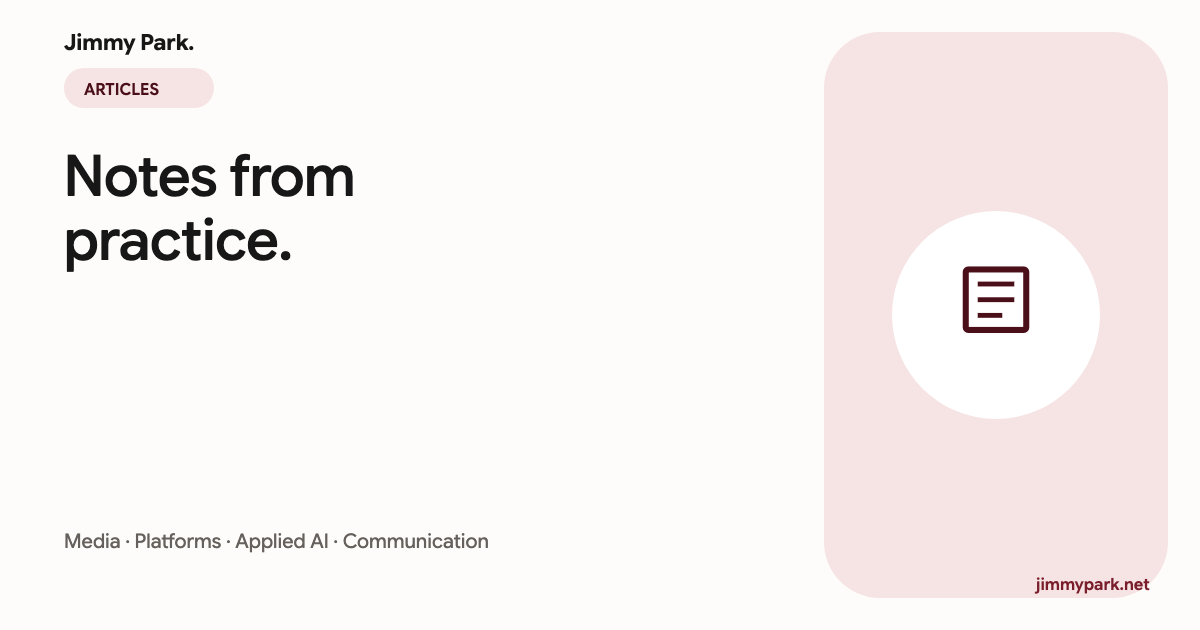
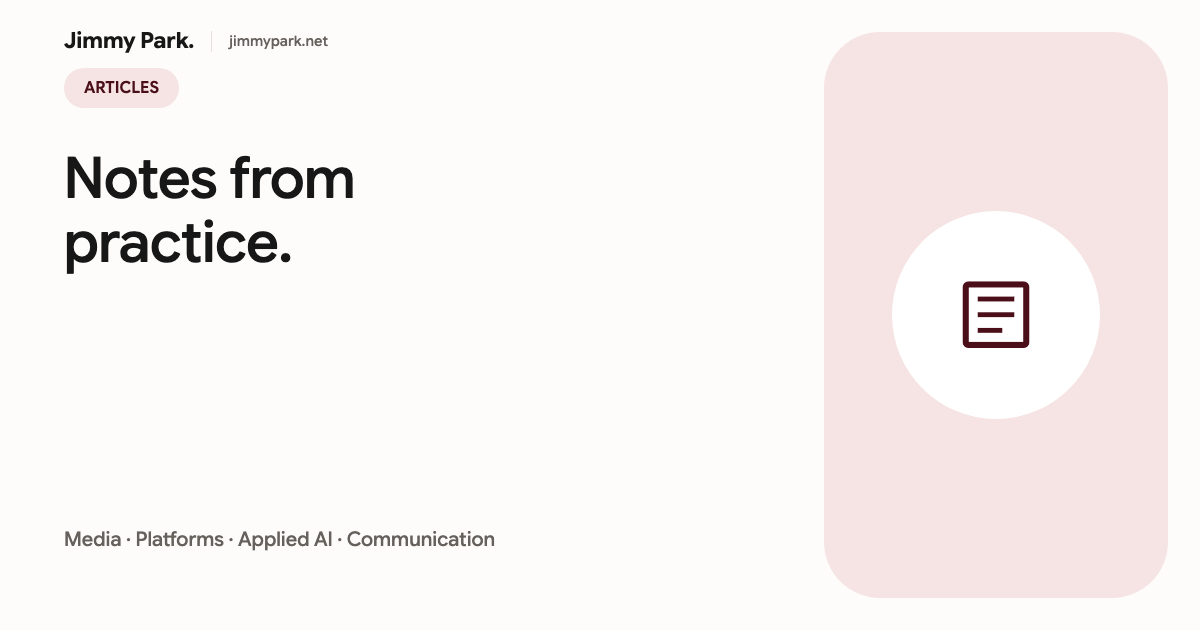
fix: move OG domain into safe brand lockup

diff --git a/insights.html b/insights.html
@@ -2,8 +2,8 @@
 <html lang="en"><head><meta charset="utf-8"><meta name="viewport" content="width=device-width, initial-scale=1">
 <title>Articles | Jimmy Park</title><meta name="description" content="Practical articles on media, web development, applied AI, and Scouting communication."><link rel="canonical" href="https://jimmypark.net/insights">
 <meta property="og:type" content="website"><meta property="og:site_name" content="Jimmy Park"><meta property="og:title" content="Articles | Jimmy Park"><meta property="og:description" content="Practical articles on media, web development, applied AI, and Scouting communication."><meta property="og:url" content="https://jimmypark.net/insights">
-<meta property="og:image" content="https://jimmypark.net/assets/img/og/articles.png?v=0.22.0"><meta property="og:image:secure_url" content="https://jimmypark.net/assets/img/og/articles.png?v=0.22.0"><meta property="og:image:width" content="1200"><meta property="og:image:height" content="630"><meta property="og:image:alt" content="Jimmy Park Articles — notes from practice">
-<meta name="twitter:card" content="summary_large_image"><meta name="twitter:image" content="https://jimmypark.net/assets/img/og/articles.png?v=0.22.0"><meta name="twitter:image:alt" content="Jimmy Park Articles — notes from practice"><meta name="twitter:title" content="Articles | Jimmy Park"><meta name="twitter:description" content="Practical articles on media, web development, applied AI, and Scouting communication.">
+<meta property="og:image" content="https://jimmypark.net/assets/img/og/articles.png?v=0.22.1"><meta property="og:image:secure_url" content="https://jimmypark.net/assets/img/og/articles.png?v=0.22.1"><meta property="og:image:width" content="1200"><meta property="og:image:height" content="630"><meta property="og:image:alt" content="Jimmy Park Articles — notes from practice">
+<meta name="twitter:card" content="summary_large_image"><meta name="twitter:image" content="https://jimmypark.net/assets/img/og/articles.png?v=0.22.1"><meta name="twitter:image:alt" content="Jimmy Park Articles — notes from practice"><meta name="twitter:title" content="Articles | Jimmy Park"><meta name="twitter:description" content="Practical articles on media, web development, applied AI, and Scouting communication.">
 <link rel="icon" href="/assets/img/favicon.svg?v=0.9.0" type="image/svg+xml">
 <link rel="preconnect" href="https://fonts.googleapis.com"><link rel="preconnect" href="https://fonts.gstatic.com" crossorigin><link href="https://fonts.googleapis.com/css2?family=Google+Sans+Flex:opsz,wght@6..144,1..1000&amp;display=swap" rel="stylesheet"><link href="https://fonts.googleapis.com/css2?family=Material+Symbols+Outlined:opsz,wght,FILL,GRAD@20..48,400,0..1,0&amp;display=swap" rel="stylesheet">
 <link rel="stylesheet" href="/assets/site.css?v=0.22.0"></head>

diff --git a/index.html b/index.html
@@ -11,15 +11,15 @@
 <meta property="og:title" content="Jimmy Park (박지민) | Producer, Platform Builder &amp; Applied AI Practitioner">
 <meta property="og:description" content="Jimmy Park (박지민) is a Korea-based producer and builder who turns complex goals into films, learning platforms and practical AI workflows, supported by international collaboration.">
 <meta property="og:url" content="https://jimmypark.net/">
-<meta property="og:image" content="https://jimmypark.net/assets/img/og/home.png?v=0.22.0">
-<meta property="og:image:secure_url" content="https://jimmypark.net/assets/img/og/home.png?v=0.22.0">
+<meta property="og:image" content="https://jimmypark.net/assets/img/og/home.png?v=0.22.1">
+<meta property="og:image:secure_url" content="https://jimmypark.net/assets/img/og/home.png?v=0.22.1">
 <meta property="og:image:width" content="1200">
 <meta property="og:image:height" content="630">
 <meta property="og:image:alt" content="Jimmy Park — purpose first, the right medium, built for use">
 <meta name="twitter:card" content="summary_large_image">
 <meta name="twitter:title" content="Jimmy Park (박지민) | Producer, Platform Builder &amp; Applied AI Practitioner">
 <meta name="twitter:description" content="Jimmy Park (박지민) is a Korea-based producer and builder who turns complex goals into films, learning platforms and practical AI workflows, supported by international collaboration.">
-<meta name="twitter:image" content="https://jimmypark.net/assets/img/og/home.png?v=0.22.0">
+<meta name="twitter:image" content="https://jimmypark.net/assets/img/og/home.png?v=0.22.1">
 <meta name="twitter:image:alt" content="Jimmy Park — purpose first, the right medium, built for use">
 <link rel="icon" href="/assets/img/favicon.svg?v=0.9.0" type="image/svg+xml">
 <link rel="stylesheet" as="style" crossorigin href="https://cdn.jsdelivr.net/gh/orioncactus/pretendard@v1.3.9/dist/web/static/pretendard.min.css">

diff --git a/work.html b/work.html
@@ -11,15 +11,15 @@
 <meta property="og:title" content="Media Work: Video Production &amp; Photography | Jimmy Park">
 <meta property="og:description" content="Explore Jimmy Park’s media work: keynote videos, promotional films, branded series and event films with credited roles, plus press-ready field photography.">
 <meta property="og:url" content="https://jimmypark.net/work">
-<meta property="og:image" content="https://jimmypark.net/assets/img/og/media-work.png?v=0.22.0">
-<meta property="og:image:secure_url" content="https://jimmypark.net/assets/img/og/media-work.png?v=0.22.0">
+<meta property="og:image" content="https://jimmypark.net/assets/img/og/media-work.png?v=0.22.1">
+<meta property="og:image:secure_url" content="https://jimmypark.net/assets/img/og/media-work.png?v=0.22.1">
 <meta property="og:image:width" content="1200">
 <meta property="og:image:height" content="630">
 <meta property="og:image:alt" content="Jimmy Park media work — stories shaped for attention and meaning">
 <meta name="twitter:title" content="Media Work: Video Production &amp; Photography | Jimmy Park">
 <meta name="twitter:description" content="Explore Jimmy Park’s media work: keynote videos, promotional films, branded series and event films with credited roles, plus press-ready field photography.">
 <meta name="twitter:card" content="summary_large_image">
-<meta name="twitter:image" content="https://jimmypark.net/assets/img/og/media-work.png?v=0.22.0">
+<meta name="twitter:image" content="https://jimmypark.net/assets/img/og/media-work.png?v=0.22.1">
 <meta name="twitter:image:alt" content="Jimmy Park media work — stories shaped for attention and meaning">
 <link rel="icon" href="/assets/img/favicon.svg?v=0.9.0" type="image/svg+xml">
 <link rel="stylesheet" as="style" crossorigin href="https://cdn.jsdelivr.net/gh/orioncactus/pretendard@v1.3.9/dist/web/static/pretendard.min.css">

diff --git a/lecture.html b/lecture.html
@@ -11,15 +11,15 @@
 <meta property="og:title" content="Lectures &amp; Workshops | Jimmy Park">
 <meta property="og:description" content="Korean-language lectures and workshops by Jimmy Park on branded film, youth media, applied AI and Scouting — plus 1:1 and small-group sessions. English available on request.">
 <meta property="og:url" content="https://jimmypark.net/lecture">
-<meta property="og:image" content="https://jimmypark.net/assets/img/og/lecture.png?v=0.22.0">
-<meta property="og:image:secure_url" content="https://jimmypark.net/assets/img/og/lecture.png?v=0.22.0">
+<meta property="og:image" content="https://jimmypark.net/assets/img/og/lecture.png?v=0.22.1">
+<meta property="og:image:secure_url" content="https://jimmypark.net/assets/img/og/lecture.png?v=0.22.1">
 <meta property="og:image:width" content="1200">
 <meta property="og:image:height" content="630">
 <meta property="og:image:alt" content="Jimmy Park lectures and learning — understanding before tools">
 <meta name="twitter:title" content="Lectures &amp; Workshops | Jimmy Park">
 <meta name="twitter:description" content="Korean-language lectures and workshops by Jimmy Park on branded film, youth media, applied AI and Scouting — plus 1:1 and small-group sessions. English available on request.">
 <meta name="twitter:card" content="summary_large_image">
-<meta name="twitter:image" content="https://jimmypark.net/assets/img/og/lecture.png?v=0.22.0">
+<meta name="twitter:image" content="https://jimmypark.net/assets/img/og/lecture.png?v=0.22.1">
 <meta name="twitter:image:alt" content="Jimmy Park lectures and learning — understanding before tools">
 <link rel="icon" href="/assets/img/favicon.svg?v=0.9.0" type="image/svg+xml">
 <link rel="stylesheet" as="style" crossorigin href="https://cdn.jsdelivr.net/gh/orioncactus/pretendard@v1.3.9/dist/web/static/pretendard.min.css">

diff --git a/scouting.html b/scouting.html
@@ -11,15 +11,15 @@
 <meta property="og:title" content="Global Scouting &amp; International Collaboration | Jimmy Park">
 <meta property="og:description" content="Explore Jimmy Park’s documented Scouting roles, Asia-Pacific Region service, World Scout Jamboree media work and international experience.">
 <meta property="og:url" content="https://jimmypark.net/scouting">
-<meta property="og:image" content="https://jimmypark.net/assets/img/og/scouting.png?v=0.22.0">
-<meta property="og:image:secure_url" content="https://jimmypark.net/assets/img/og/scouting.png?v=0.22.0">
+<meta property="og:image" content="https://jimmypark.net/assets/img/og/scouting.png?v=0.22.1">
+<meta property="og:image:secure_url" content="https://jimmypark.net/assets/img/og/scouting.png?v=0.22.1">
 <meta property="og:image:width" content="1200">
 <meta property="og:image:height" content="630">
 <meta property="og:image:alt" content="Jimmy Park global and Scouting work — context changes the work">
 <meta name="twitter:title" content="Global Scouting &amp; International Collaboration | Jimmy Park">
 <meta name="twitter:description" content="Explore Jimmy Park’s documented Scouting roles, Asia-Pacific Region service, World Scout Jamboree media work and international experience.">
 <meta name="twitter:card" content="summary_large_image">
-<meta name="twitter:image" content="https://jimmypark.net/assets/img/og/scouting.png?v=0.22.0">
+<meta name="twitter:image" content="https://jimmypark.net/assets/img/og/scouting.png?v=0.22.1">
 <meta name="twitter:image:alt" content="Jimmy Park global and Scouting work — context changes the work">
 <link rel="icon" href="/assets/img/favicon.svg?v=0.9.0" type="image/svg+xml">
 <link rel="stylesheet" as="style" crossorigin href="https://cdn.jsdelivr.net/gh/orioncactus/pretendard@v1.3.9/dist/web/static/pretendard.min.css">

diff --git a/dev.html b/dev.html
@@ -11,15 +11,15 @@
 <meta property="og:title" content="Dev Work: Practical Websites &amp; Applied AI | Jimmy Park">
 <meta property="og:description" content="Practical websites and web tools shaped around user needs, with applied AI supporting planning, development, and ongoing operations.">
 <meta property="og:url" content="https://jimmypark.net/dev">
-<meta property="og:image" content="https://jimmypark.net/assets/img/og/dev-work.png?v=0.22.0">
-<meta property="og:image:secure_url" content="https://jimmypark.net/assets/img/og/dev-work.png?v=0.22.0">
+<meta property="og:image" content="https://jimmypark.net/assets/img/og/dev-work.png?v=0.22.1">
+<meta property="og:image:secure_url" content="https://jimmypark.net/assets/img/og/dev-work.png?v=0.22.1">
 <meta property="og:image:width" content="1200">
 <meta property="og:image:height" content="630">
 <meta property="og:image:alt" content="Jimmy Park development work — platforms built for real use">
 <meta name="twitter:title" content="Dev Work: Practical Websites &amp; Applied AI | Jimmy Park">
 <meta name="twitter:description" content="Practical websites and web tools shaped around user needs, with applied AI supporting planning, development, and ongoing operations.">
 <meta name="twitter:card" content="summary_large_image">
-<meta name="twitter:image" content="https://jimmypark.net/assets/img/og/dev-work.png?v=0.22.0">
+<meta name="twitter:image" content="https://jimmypark.net/assets/img/og/dev-work.png?v=0.22.1">
 <meta name="twitter:image:alt" content="Jimmy Park development work — platforms built for real use">
 <link rel="icon" href="/assets/img/favicon.svg?v=0.9.0" type="image/svg+xml">
 <link rel="stylesheet" as="style" crossorigin href="https://cdn.jsdelivr.net/gh/orioncactus/pretendard@v1.3.9/dist/web/static/pretendard.min.css">

diff --git a/contact.html b/contact.html
@@ -11,15 +11,15 @@
 <meta property="og:title" content="Contact Jimmy Park | Video, Education &amp; AI">
 <meta property="og:description" content="Contact Jimmy Park to share a brief for video, learning platforms, applied AI workflows, or global Scouting collaboration.">
 <meta property="og:url" content="https://jimmypark.net/contact">
-<meta property="og:image" content="https://jimmypark.net/assets/img/og/contact.png?v=0.22.0">
-<meta property="og:image:secure_url" content="https://jimmypark.net/assets/img/og/contact.png?v=0.22.0">
+<meta property="og:image" content="https://jimmypark.net/assets/img/og/contact.png?v=0.22.1">
+<meta property="og:image:secure_url" content="https://jimmypark.net/assets/img/og/contact.png?v=0.22.1">
 <meta property="og:image:width" content="1200">
 <meta property="og:image:height" content="630">
 <meta property="og:image:alt" content="Start a conversation with Jimmy Park">
 <meta name="twitter:title" content="Contact Jimmy Park | Video, Education &amp; AI">
 <meta name="twitter:description" content="Contact Jimmy Park to share a brief for video, learning platforms, applied AI workflows, or global Scouting collaboration.">
 <meta name="twitter:card" content="summary_large_image">
-<meta name="twitter:image" content="https://jimmypark.net/assets/img/og/contact.png?v=0.22.0">
+<meta name="twitter:image" content="https://jimmypark.net/assets/img/og/contact.png?v=0.22.1">
 <meta name="twitter:image:alt" content="Start a conversation with Jimmy Park">
 <link rel="icon" href="/assets/img/favicon.svg?v=0.9.0" type="image/svg+xml">
 <link rel="stylesheet" as="style" crossorigin href="https://cdn.jsdelivr.net/gh/orioncactus/pretendard@v1.3.9/dist/web/static/pretendard.min.css">

diff --git a/functions/_insights-view.js b/functions/_insights-view.js
@@ -64,11 +64,11 @@ const SERIES = {
   'if-people-cannot-understand-it-little-remains': { name: 'The Work Behind the Work', part: 4 },
 };
 const PAGE_SIZE = 5;
-const DEFAULT_IMAGE = 'https://jimmypark.net/assets/img/og/articles.png?v=0.22.0';
+const DEFAULT_IMAGE = 'https://jimmypark.net/assets/img/og/articles.png?v=0.22.1';
 
 function articleImage(post) {
   const value = String(post?.image || '').trim();
-  if (/^\/assets\/img\/[A-Za-z0-9._/-]+$/u.test(value)) return 'https://jimmypark.net' + value + (value.startsWith('/assets/img/og/') ? '?v=0.22.0' : '');
+  if (/^\/assets\/img\/[A-Za-z0-9._/-]+$/u.test(value)) return 'https://jimmypark.net' + value + (value.startsWith('/assets/img/og/') ? '?v=0.22.1' : '');
   if (/^https:\/\/[^\s]+$/u.test(value)) return value;
   return DEFAULT_IMAGE;
 }

diff --git a/README.md b/README.md
@@ -5,6 +5,10 @@ Warm-minimal, English-first, with Material Design 3 interaction patterns. Burgun
 is the core accent, with a purple `#622599` theme on Global & Scouting. **Vanilla HTML/CSS/JS — no build step.**
 Google Sans Flex is the default typeface, with Pretendard/system fallbacks.
 
+The v0.22.1 OG refinement removes the domain label from photo and symbol panes. `Jimmy Park.` and
+`jimmypark.net` now form one top-left brand lockup with a divider and a full 64px safe area. Cards
+are rendered as ordinary HTML/CSS in isolated browser targets to avoid partial SVG/font captures.
+
 The v0.22.0 OG set is rendered from the site's Material 3 tokens. It uses Google Sans Flex,
 official Material Symbols, the M3 display/label hierarchy, color roles, 28px/full shapes and the
 8px spacing system. The generator waits for and verifies both Google font families before capture;

diff --git a/CLAUDE.md b/CLAUDE.md
@@ -594,6 +594,9 @@ all write/admin endpoints require `isAdmin()`. There are no passwords stored.
   social-preview format while preserving Jimmy Park's photography and burgundy/green/purple roles.
 - Bump the query value on every OG/Twitter image URL when artwork changes; social crawlers cache
   images independently from the page response.
+- v0.22.1: keep `Jimmy Park.` and `jimmypark.net` together in the top-left brand lockup. Never place
+  the domain on a photo, tonal symbol pane, rounded corner or bottom edge. Each card is rendered in
+  an isolated browser target so font repaints cannot leave a partially painted PNG.
 
 ## Required Cloudflare config (don't commit secrets)
 - **KV namespace `JP_KV`** — bound in `wrangler.toml` (`id` already set). Stores `content`,

diff --git a/design.md b/design.md
@@ -569,6 +569,8 @@ these roles; new rules should use the `--md-*` names directly.
   use one large tonal supporting pane and a single semantically relevant Material Symbol.
 - Keep `jimmypark.net`, series/section label, title and identity text inside the 64px safe area.
   Regenerate and visually inspect long titles after any copy or font change.
+- v0.22.1 groups `Jimmy Park.` and `jimmypark.net` in a single top-left lockup separated by an
+  outline-variant rule. The URL must never float over the bottom of a photo or symbol pane.
 
 ## SETUKOR connection (2026-09-16)
 `/setukor` and `/setukor/` redirect (302) to `https://setukor-learning.jimmy-park.chatgpt.site/`, preserving the query string. Handled in `functions/_middleware.js`.

diff --git a/PROJECT_CONTEXT.md b/PROJECT_CONTEXT.md
@@ -1,5 +1,9 @@
 # Current work
 
+OG cards v0.22.1 correct the careless floating domain treatment: the URL no longer sits on the
+bottom edge of photo or symbol panes. Identity and domain are grouped in a deliberate top-left
+brand lockup, and isolated HTML/CSS browser rendering prevents partial text paint during generation.
+
 OG cards v0.22.0 replace the earlier M3-inspired artwork with a token-based Material 3 system:
 Google Sans Flex, official Material Symbols, M3 type hierarchy, color roles, spacing and shapes.
 The deterministic generator verifies the required fonts before capture. Versioned image URLs force
